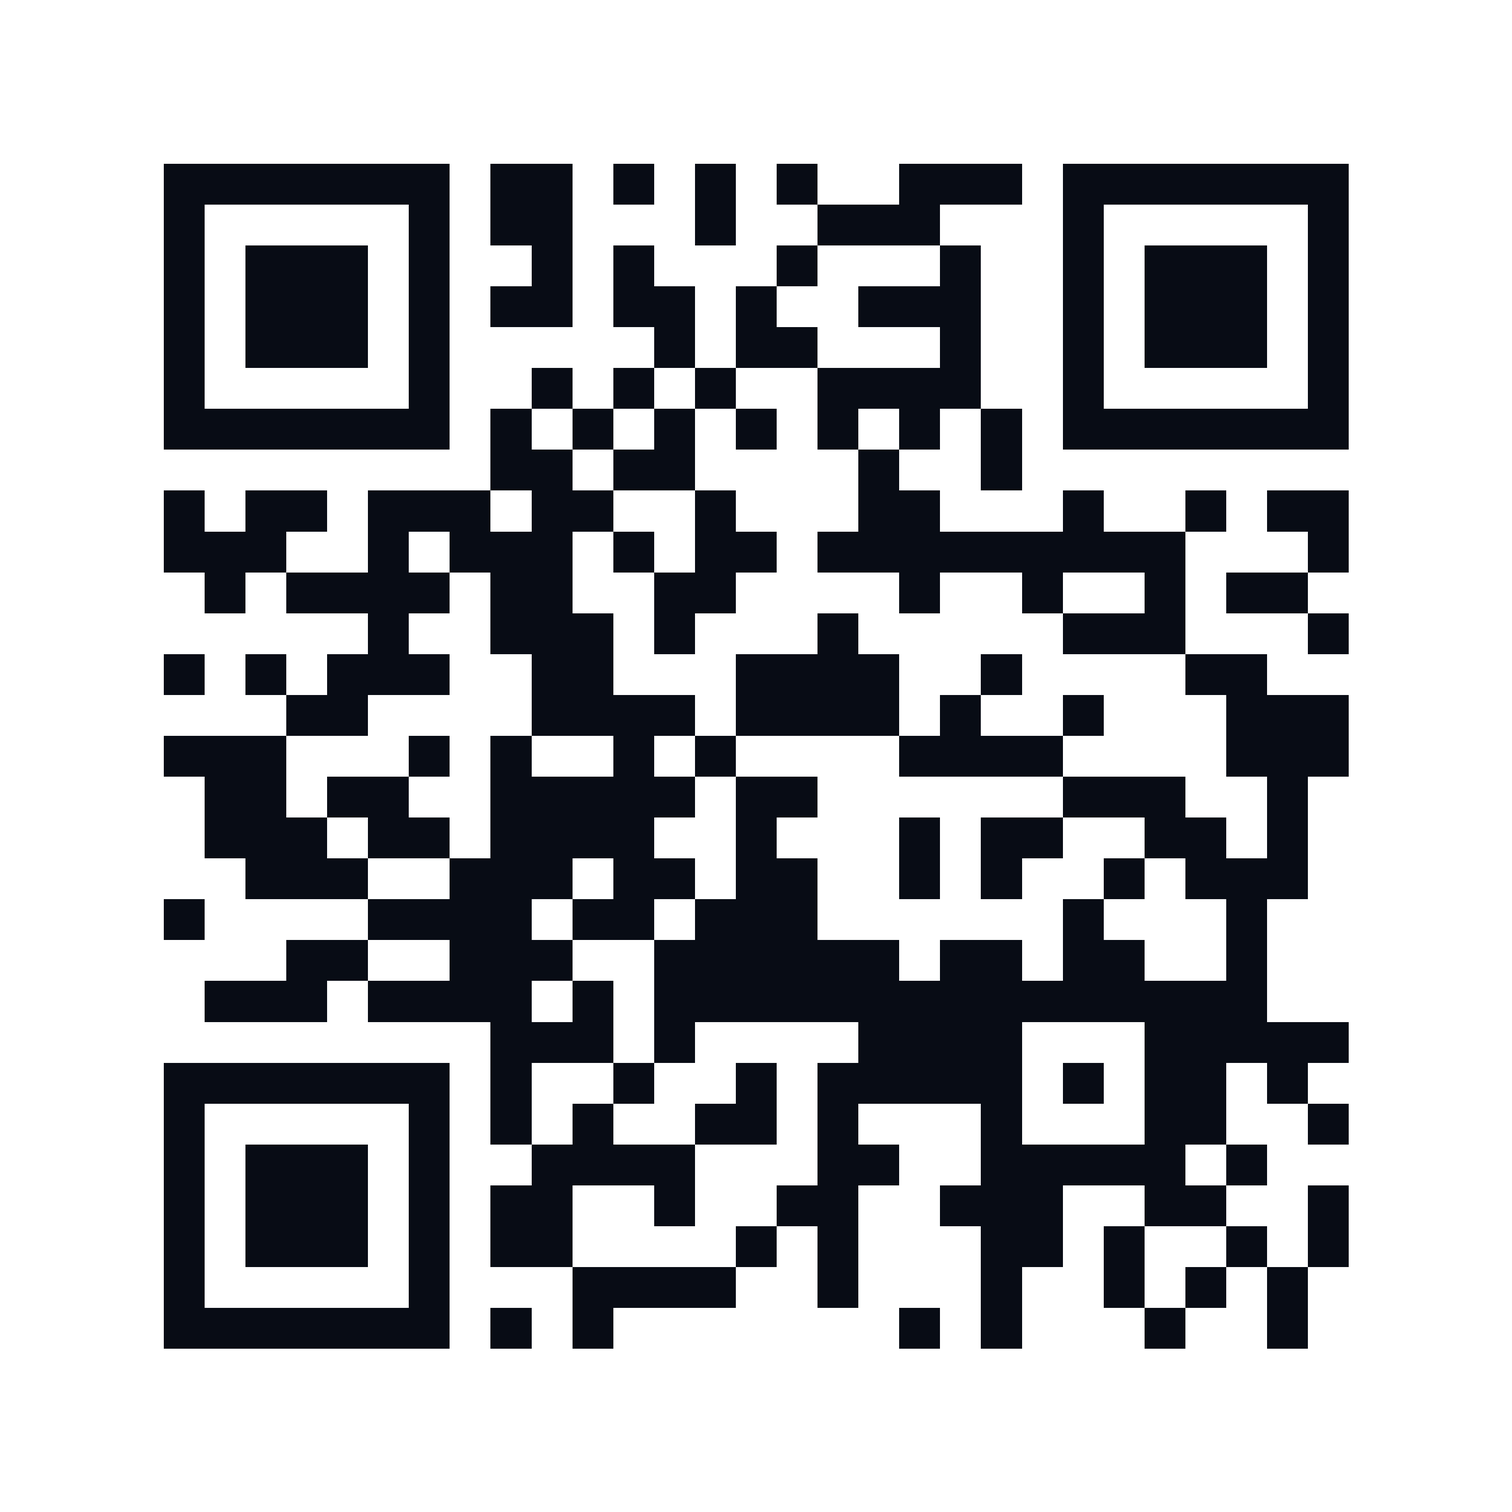
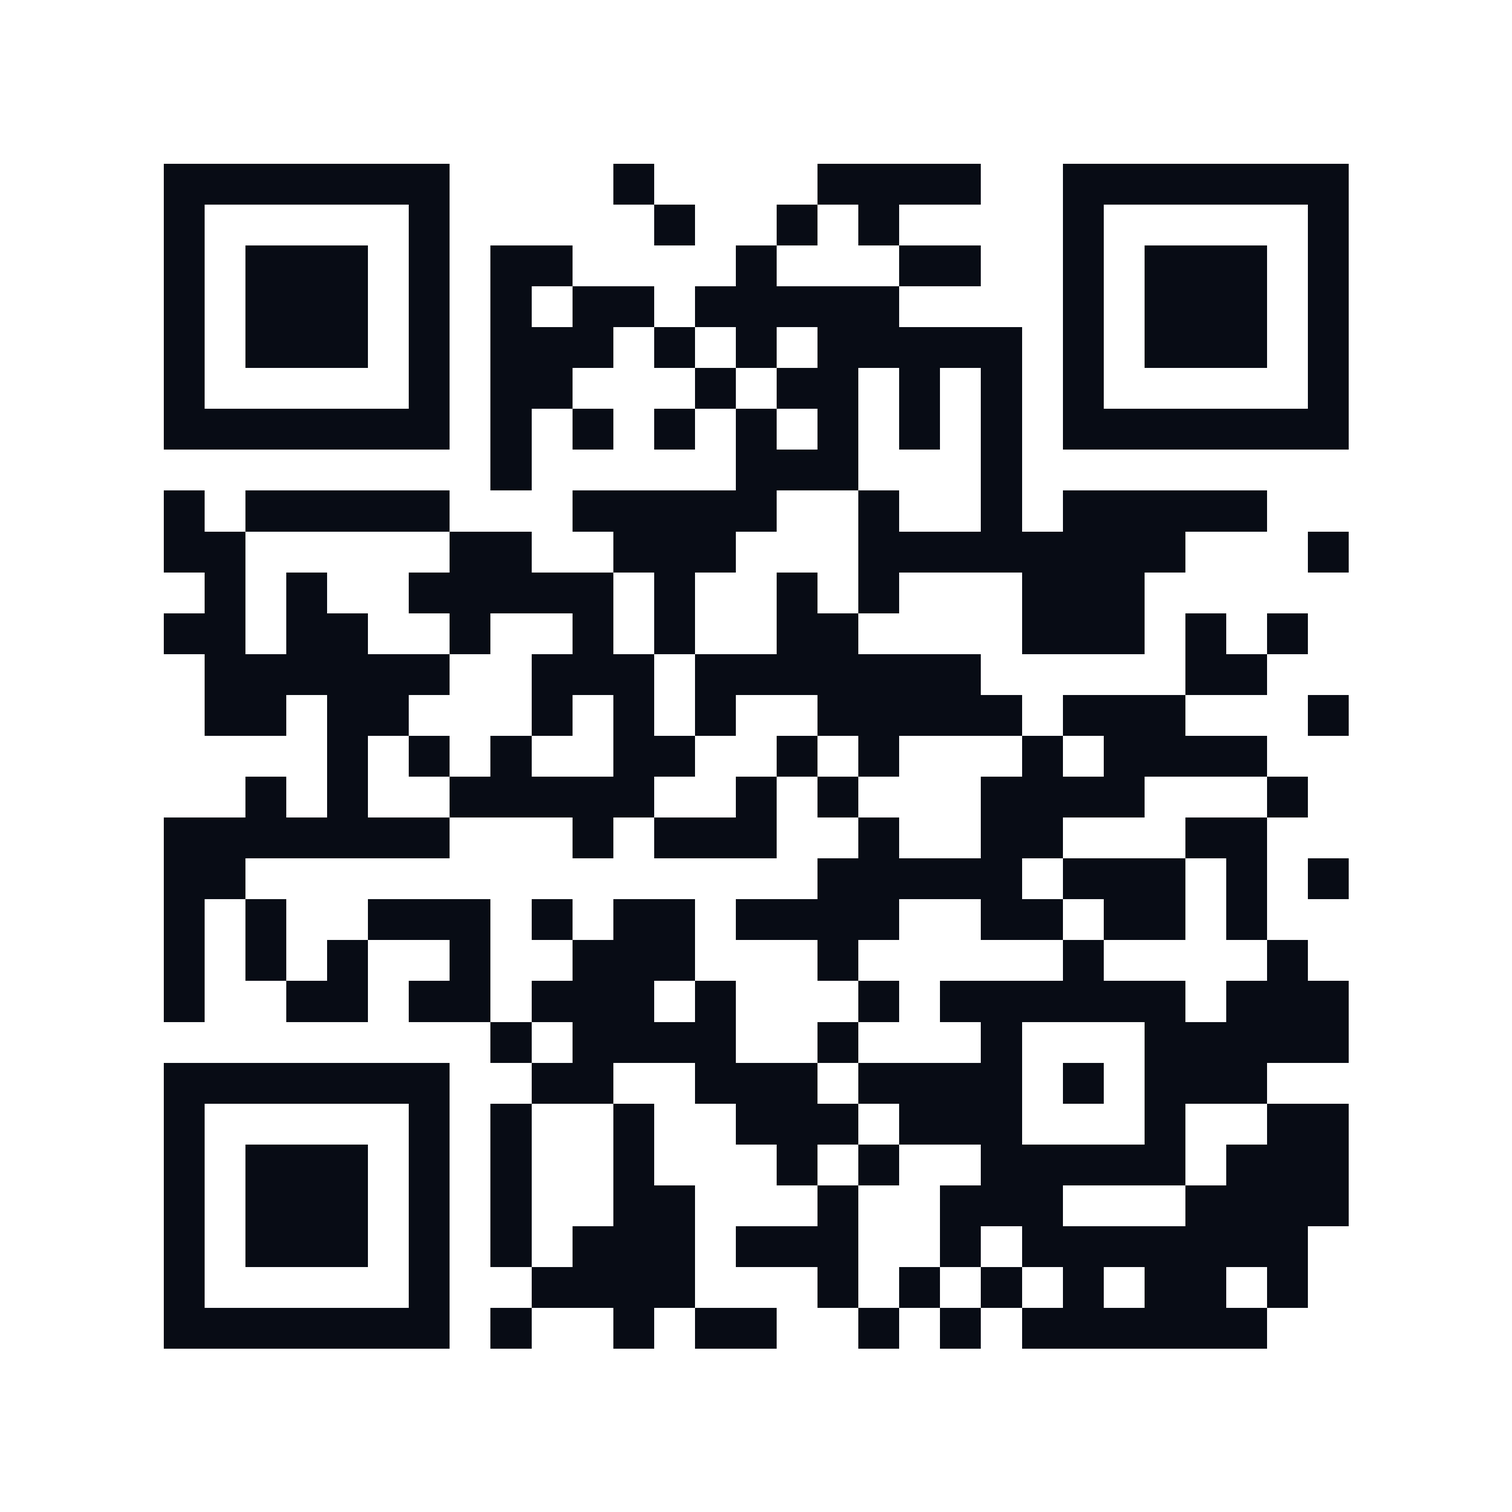
GitHub Pages; новый текст, рассрочка, фото, образование, курсы, отзывы, адрес пер. Карла Маркса, 12

Changed region(s): [[0.093, 0.093, 0.899, 0.899], [0.651, 0.31, 0.682, 0.372], [0.651, 0.093, 0.682, 0.155]]

diff --git a/src/card-config.js b/src/card-config.js
@@ -8,8 +8,9 @@ const CARD = {
   name: "Рашид Гасанов",                    // имя врача
   role: "Врач-ортодонт",
   city: "Дербент",
-  about: "Исправляю прикус у детей и взрослых: брекеты, элайнеры, ретейнеры. Первая консультация — осмотр, план лечения и честный ответ, сколько это займёт.",
-  cardUrl: "https://ortodont-rashid.netlify.app/", // адрес визитки: зашит в QR и в контакт
+  about: "Исправление прикуса и выравнивание зубов у детей и взрослых. Точная диагностика, индивидуальный подход и продуманное планирование лечения с вниманием к эстетике улыбки и правильному смыканию зубов.",
+  payment: "Возможна рассрочка на лечение",
+  cardUrl: "https://timojr3.github.io/ortodont-rashid/", // адрес визитки: зашит в QR и в контакт
 
   phoneDisplay: "+7 (960) 347-65-47",
   phoneTel: "+79603476547",
@@ -17,10 +18,29 @@ const CARD = {
   telegram: "",                             // ник без @ (пусто — строки нет)
   instagram: "https://www.instagram.com/ortodont.rashid/",
 
-  address: "Республика Дагестан, г. Дербент, пер. Карла Маркса, 49А",
+  address: "Республика Дагестан, г. Дербент, пер. Карла Маркса, 12",
   mapUrl: "https://yandex.ru/maps/-/CXWwyEJ9",
 
-  facts: ["Стаж: [00] лет", "Образование: [вуз, ординатура, год]", "[Курсы, сертификаты]"],
+  experience: "Стаж 7 лет",
+  education: [
+    "Стоматология — Саратовский государственный медицинский университет им. В. И. Разумовского",
+    "Ординатура по ортодонтии — Саратовский государственный медицинский университет им. В. И. Разумовского",
+  ],
+  // Повышение квалификации: [год, тема]
+  courses: [
+    ["2020", "Вебинар «Kerr. Снятие брекетов. Установка ретейнеров»"],
+    ["2020", "«Ортодонтическая резидентура. Современные принципы ортодонтического лечения. Основы диагностики. Успешный старт практики»"],
+    ["2021", "«Дезартикуляция как главное оружие ортодонта»"],
+    ["2021", "«Тандем хирург-ортодонт. Ортодонтические импланты»"],
+    ["2021", "«Дентальная фотография»"],
+  ],
+
+  // Отзывы пациентов — только настоящие, с разрешения авторов
+  reviews: [
+    "Обращался с кривыми зубами и дистальным прикусом. После чего был вывод поставить брекеты. Сама установка была безболезненная, быстрая. Последующие коррекции также. А конечный результат очень сильно понравился. Спасибо огромное Рашиду за такое прекрасное лечение.",
+    "Недавно я закончила лечение с помощью брекетов и хочу поделиться своим опытом. Это было долгое, но абсолютно оправданное путешествие! Когда я впервые пришла на консультацию к ортодонту, у меня были серьезные проблемы с прикусом и неровными зубами. Врач предложил установить брекеты, и хотя я немного боялась, решилась на этот шаг. Процесс установки занял около двух часов. Было немного непривычно, но безболезненно. Первые дни после установки я чувствовала дискомфорт, зубы немного ныли, особенно при жевании. Но уже через неделю я привыкла, и брекеты стали частью моей жизни. Самым сложным для меня был период адаптации. Пришлось изменить свои привычки: отказаться от некоторых продуктов (например, орехов и ирисок), тщательнее чистить зубы и пользоваться ирригатором. Но со временем это вошло в привычку. Результат превзошел все мои ожидания! Зубы стали ровными, прикус исправился, и я наконец-то могу улыбаться без стеснения. Весь процесс занял около полутора лет, но это того стоило. Я благодарна своему врачу за профессионализм и поддержку на каждом этапе. Если вы сомневаетесь, ставить ли брекеты, мой совет — не бойтесь! Это инвестиция в ваше здоровье и уверенность в себе. Да, это требует времени и терпения, но результат того стоит.",
+    "Пришли на приём к врачу Гасанову Рашиду Абдулхаликовичу с дочерью. Проблема была связана с неправильным прикусом и кривизной зубов. Проблема была устранена сразу же. Его отношение к пациенту и его профессионализм, а также доброжелательное и вежливые отношение к пациентам заслуживают высокой оценки. Я рекомендую врача Рашида Абдулхаликовича как надёжного и компетентного специалиста, которому можно доверить здоровье свое и своего ребёнка. Спасибо за прекрасную улыбку! Лечение помогло на 100%. Улыбка дочери превзошла наши ожидания.",
+  ],
 
   // Работы «до и после». before/after — фото в папке src/works/ (только с письменного согласия пациента).
   // Пока там рисунки-примеры. Пустой список — раздел не показывается.
@@ -31,5 +51,5 @@ const CARD = {
   ],
 
   clinic: "Стоматология IDEAL",             // где принимает (пусто — строки нет)
-  clinicUrl: "https://stomatology-ideal.netlify.app/card/",
+  clinicUrl: "https://timojr3.github.io/stomatology-ideal/card/",
 };

diff --git a/src/card.js b/src/card.js
@@ -22,13 +22,40 @@
   };
   $$("[data-href]").forEach((a) => { const h = hrefs[a.dataset.href]; if (h) a.href = h; });
 
-  // строки без данных (нет Telegram, нет клиники) не показываем
-  const has = { telegram: !!hrefs.telegram, instagram: !!insta, clinic: !!(CARD.clinic && hrefs.clinic) };
+  // блоки без данных (нет Telegram, нет клиники, нет отзывов…) не показываем
+  const list = (k) => Array.isArray(CARD[k]) && CARD[k].length > 0;
+  const has = {
+    telegram: !!hrefs.telegram, instagram: !!insta, clinic: !!(CARD.clinic && hrefs.clinic),
+    payment: !!CARD.payment, experience: !!CARD.experience, photo: true,
+    education: list("education"), courses: list("courses"), reviews: list("reviews"),
+  };
   $$("[data-need]").forEach((n) => { if (!has[n.dataset.need]) n.remove(); });
 
-  const facts = $("#facts");
-  (CARD.facts || []).forEach((f) => { const li = document.createElement("li"); li.textContent = f; facts.append(li); });
-  if (!facts.children.length) facts.closest("section").remove();
+  const add = (parent, tag, cls, txt) => { const e = document.createElement(tag); if (cls) e.className = cls; if (txt != null) e.textContent = txt; parent.append(e); return e; };
+  const edu = $("#education");
+  if (edu) CARD.education.forEach((t) => add(edu, "li", null, t));
+  const courses = $("#courses");
+  if (courses) CARD.courses.forEach(([year, title]) => { const li = add(courses, "li"); add(li, "span", "c-year", year); add(li, "span", "c-title", title); });
+
+  // отзывы: длинные свёрнуты до нескольких строк, кнопка разворачивает
+  const reviews = $("#review-list");
+  if (reviews) CARD.reviews.forEach((t, i) => {
+    const li = add(reviews, "li", "review");
+    add(li, "h3", null, "История пациента");
+    const p = add(li, "p", "review-text", t); p.id = "review-" + i;
+    if (t.length > 320) {
+      li.classList.add("is-long");
+      const b = add(li, "button", "review-more", "Читать полностью");
+      b.type = "button"; b.setAttribute("aria-expanded", "false"); b.setAttribute("aria-controls", p.id);
+      b.addEventListener("click", () => {
+        const open = li.classList.toggle("is-open");
+        b.setAttribute("aria-expanded", String(open)); b.textContent = open ? "Свернуть" : "Читать полностью";
+      });
+    }
+  });
+  // если фото не загрузилось — убираем рамку
+  const photo = $("#photo");
+  if (photo) photo.addEventListener("error", () => photo.closest("figure").remove());
 
   /* ---------- до / после: шторка ---------- */
   const localPath = (p) => /^works\/[\w-]+\.(svg|webp|jpe?g|png)$/.test(p || ""); // только свои файлы

diff --git a/src/card.css b/src/card.css
@@ -122,7 +122,32 @@ a { color: inherit; }
 .about-doc { margin-top: 28px; }
 .about-doc h2 { font-size: 1.9rem; }
 .facts { margin: 10px 0 0; padding: 0 0 0 18px; color: var(--mist); }
-.facts li + li { margin-top: 4px; }
+.facts li + li { margin-top: 6px; }
+/* фото врача: арка сверху, как у логотипа; низ мягко уходит в фон */
+.portrait { margin: 14px 0 0; }
+.portrait img {
+  display: block; width: 100%; height: auto; aspect-ratio: 4 / 5; object-fit: cover; object-position: 50% 20%;
+  border-radius: 50% 50% 20px 20px / 32% 32% 20px 20px;
+  border: 1px solid var(--line);
+}
+.experience { margin: 16px 0 0; font: 400 1.5rem/1.2 var(--serif); }
+.sub-h { margin: 20px 0 0; font: 500 15px/1.3 var(--sans); color: var(--ring); }
+.courses { list-style: none; margin: 10px 0 0; padding: 0; display: grid; gap: 10px; }
+.courses li { display: grid; grid-template-columns: 3.4em minmax(0, 1fr); gap: 10px; color: var(--mist); }
+.c-year { color: var(--ring); font-variant-numeric: tabular-nums; }
+
+/* рассрочка под главными кнопками */
+.payment { margin: 14px 0 0; color: var(--mist); font-size: 14px; }
+
+/* ---------- отзывы ---------- */
+.reviews { margin-top: 32px; }
+.reviews h2 { font-size: 1.9rem; }
+.review-list { list-style: none; margin: 14px 0 0; padding: 0; display: grid; gap: 12px; }
+.review { padding: 16px 18px; border-radius: 20px; border: 1px solid var(--line); background: var(--bg-2); }
+.review h3 { margin: 0 0 8px; font: 500 15px/1.3 var(--sans); color: var(--ring); }
+.review-text { margin: 0; color: var(--mist); }
+.review.is-long:not(.is-open) .review-text { display: -webkit-box; -webkit-box-orient: vertical; -webkit-line-clamp: 6; line-clamp: 6; overflow: hidden; }
+.review-more { margin-top: 8px; padding: 6px 0; border: 0; background: none; color: var(--enamel); font: 500 14px/1.2 var(--sans); text-decoration: underline; text-underline-offset: 3px; cursor: pointer; }
 
 /* ---------- клиника ---------- */
 .clinic {

diff --git a/src/index.html b/src/index.html
@@ -41,6 +41,7 @@
       <a class="btn btn-main" data-href="tel" href="#">Позвонить</a>
       <a class="btn" data-href="whatsapp" href="#" target="_blank" rel="noopener">WhatsApp</a>
     </div>
+    <p class="payment" data-need="payment" data-cfg="payment">Возможна рассрочка на лечение</p>
   </header>
 
   <!-- контакты списком: значок, что это, и подробность -->
@@ -99,7 +100,19 @@
 
   <section class="about-doc" aria-labelledby="doc-h">
     <h2 id="doc-h">О враче</h2>
-    <ul class="facts" id="facts"></ul>
+    <figure class="portrait" data-need="photo">
+      <img id="photo" src="photos/rashid.jpg" alt="Врач-ортодонт Рашид Гасанов" width="1133" height="1388" loading="lazy" decoding="async">
+    </figure>
+    <p class="experience" data-need="experience" data-cfg="experience">Стаж</p>
+    <h3 class="sub-h" data-need="education">Образование</h3>
+    <ul class="facts" id="education" data-need="education"></ul>
+    <h3 class="sub-h" data-need="courses">Повышение квалификации</h3>
+    <ol class="courses" id="courses" data-need="courses"></ol>
+  </section>
+
+  <section class="reviews" id="reviews" data-need="reviews" aria-labelledby="reviews-h">
+    <h2 id="reviews-h">Истории пациентов</h2>
+    <ul class="review-list" id="review-list"></ul>
   </section>
 
   <a class="clinic" data-need="clinic" data-href="clinic" href="#">

diff --git a/README.md b/README.md
@@ -19,8 +19,9 @@ design/                           QR для печати: qr.png (3000 px), qr-l
 | `npm start` | открыть визитку локально: http://127.0.0.1:8731 |
 | `npm run assets` | заново создать контакт .vcf и QR-коды из card-config.js |
 | `npm test` | проверки: файлы, CSP, библиотеки, данные, контакт |
-| `npm run build:zip` | собрать `dist/` и архив для Netlify («Drop new files») |
+| `npm run build` | собрать `dist/` (то же делает публикация) |
 
-Адрес визитки (`cardUrl`) — `https://ortodont-rashid.netlify.app/`. Это имя освободится после
-переименования старого сайта Netlify в `stomatology-ideal`. Если адрес будет другим — поменять `cardUrl`,
-выполнить `npm run assets` и заново сделать `design/qr-logo.png`.
+Публикация — GitHub Pages: после `git push` в `main` визитка сама проверяется и выкладывается
+на `https://timojr3.github.io/ortodont-rashid/` (файл `.github/workflows/pages.yml`).
+Если адрес поменяется (например, свой домен) — поменять `cardUrl`, выполнить `npm run assets`
+и заново сделать `design/qr-logo.png`.
